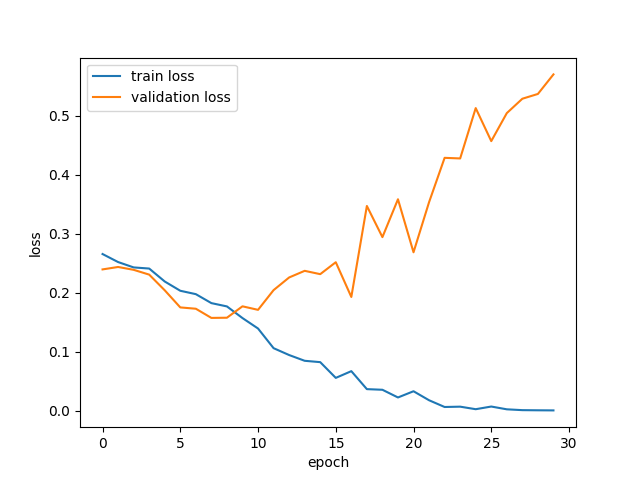
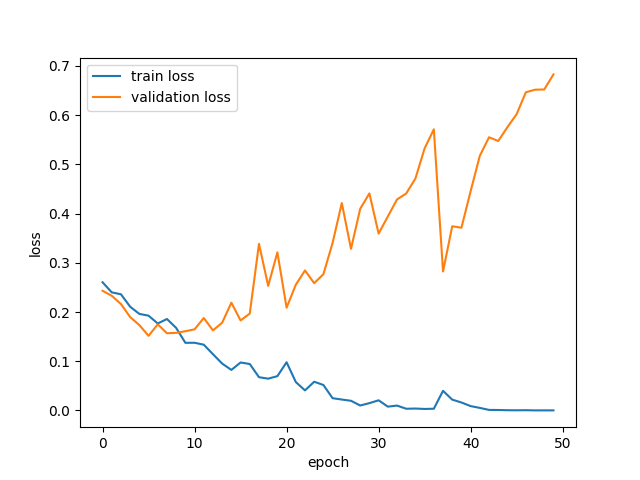
add

diff --git a/main.py b/main.py
@@ -27,14 +27,12 @@ valid_label = make_label('/home/student/datasets/CT200_160/valid_label.csv')
 #前処理を定義
 mean, std = 0.07, 0.14
 train_transform = transforms.Compose([
-    # transforms.RandomHorizontalFlip(),
-    # transforms.RandomRotation(10),
-    # transforms.Normalize((0.5, ), (0.5, )) 間違い
+    transforms.RandomHorizontalFlip(),
+    transforms.RandomRotation(10),
     transforms.Normalize(mean, std)
     ])
 
 valid_transform = transforms.Compose([
-    # transforms.Normalize((0.5, ), (0.5, )) 間違い
     transforms.Normalize(mean, std)
     ])
 
@@ -67,7 +65,7 @@ age_criterion = nn.CrossEntropyLoss(weight=age_weight)
 optimizer = optim.Adam(model.parameters(), lr=0.0001)
 
 #学習・検証
-epochs = 30
+epochs = 50
 train_loss_list = []
 valid_loss_list = []
 train_correct_sex_list = []

diff --git a/test.py b/test.py
@@ -23,8 +23,9 @@ valid_data = make_data("/home/student/datasets/CT200_160/valid/*")
 valid_label = make_label('/home/student/datasets/CT200_160/valid_label.csv')
 
 #前処理を定義
+mean, std = 0.07, 0.14
 valid_transform = transforms.Compose([
-    transforms.Normalize((0.5, ), (0.5, ))
+    transforms.Normalize(mean, std)
     ])
 
 
